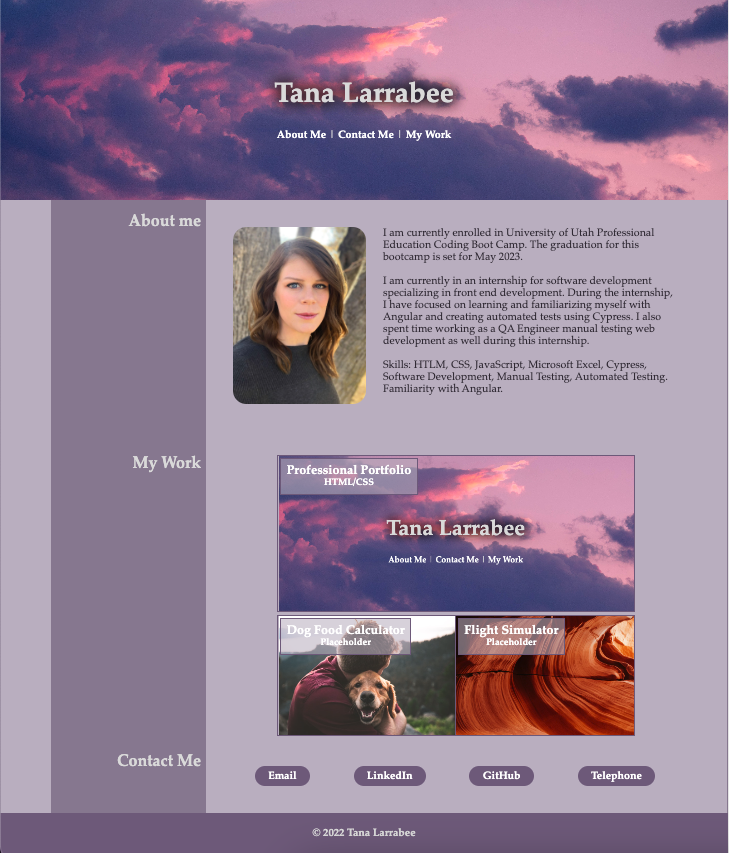
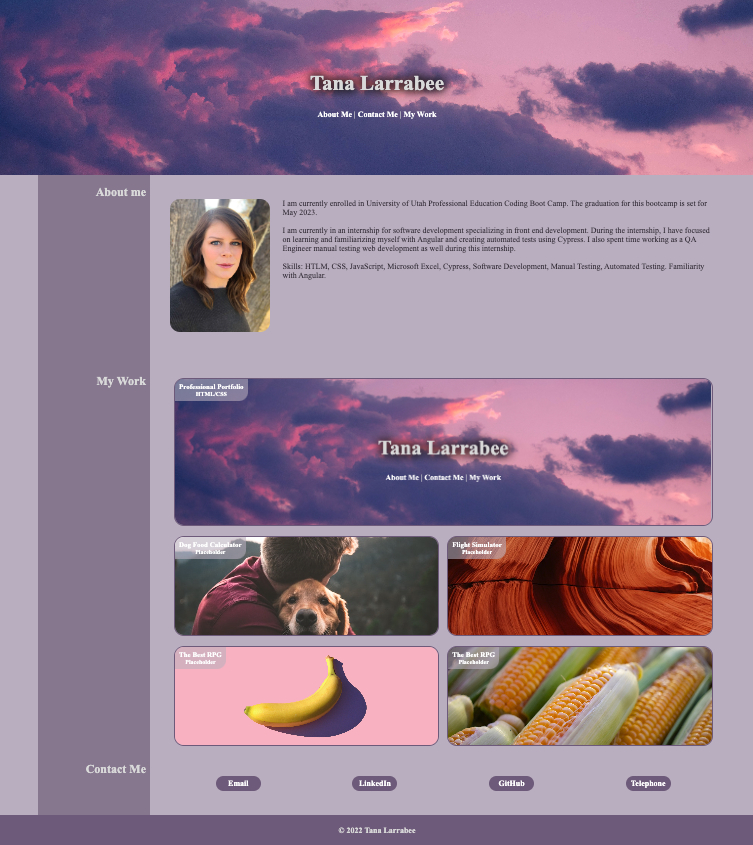
README screenshot and hero styling

diff --git a/assets/style.css b/assets/style.css
@@ -12,7 +12,7 @@ body {
 /* Hero section */
 .hero {    
     position: relative;
-    height: 300px;
+    height: 350px;
     width: 100%;
 }
 
